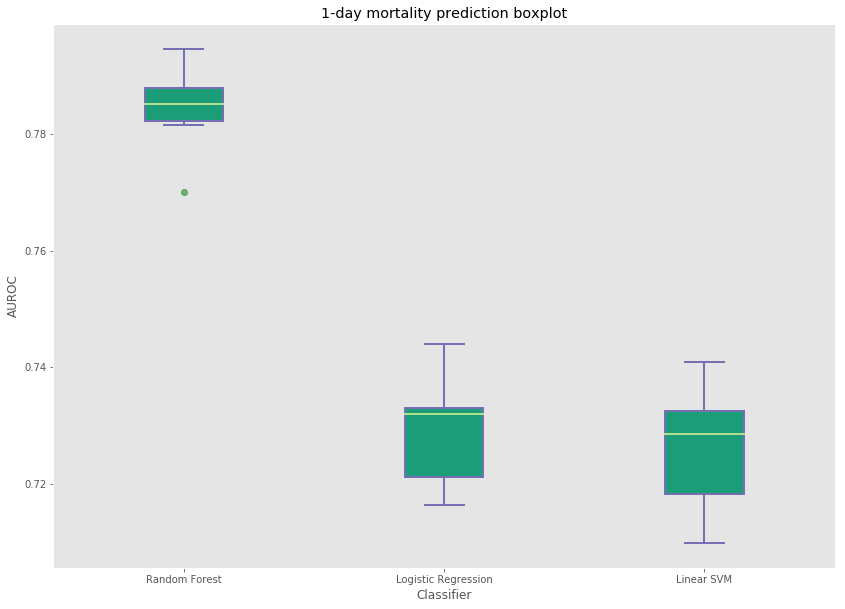
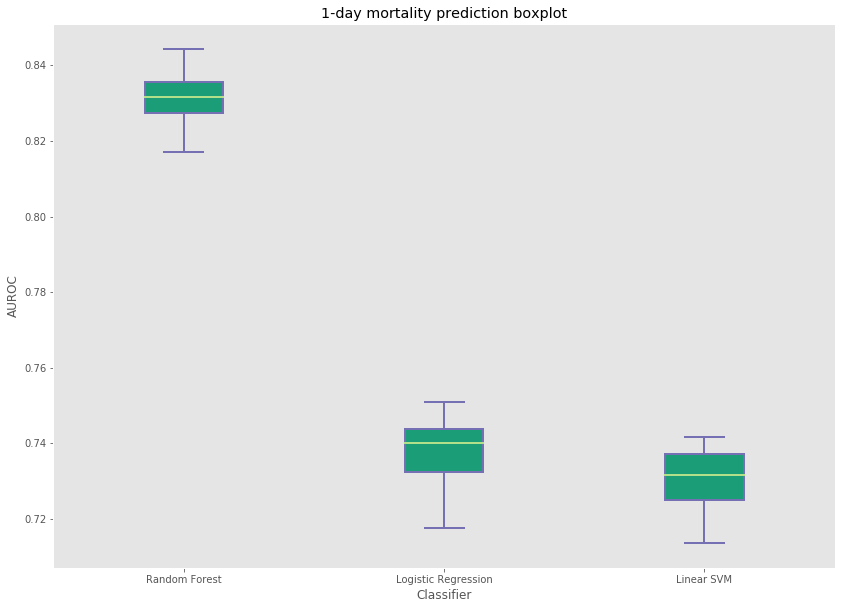
finished full draft

diff --git a/_posts/2017-08-21-gsoc-final-post.md b/_posts/2017-08-21-gsoc-final-post.md
@@ -26,10 +26,10 @@ However, initatives like the Medical Information Mart For Intensive Care (MIMIC)
     4.1. [Results](#41-results)
 5. [Improved model with temporal features](#5-improved-model-with-temporal-features)
     5.1 [Resampling](#51-resampling)
-    5.2 [Results](#52-results)
+    5.2 [Model](#52-model)
+    5.3 [Results](#53-results)
 8. [Conclusion](#conclusion)
 9. [Future improvements](#future-improvements)
-
 
 ## 1. Objective
 
@@ -38,11 +38,56 @@ Using the MIMIC database which includes vital signs, medications, diagnostic cod
 1. Mortality prediction
 2. Hospital length of stay  
 
-More specifically, I accomplished the following:
+I first experimented with a basic model which ignores temporal structure in the data, and attempted to perform mortality prediction. Briefly, for the first model, I completed the following tasks:
 
 1. Extracted predictor variables from the MIMIC database
 2. Built machine learning models for the predictions tasks
-3. Evaluated and compared the performance of various algorithms
+3. Evaluated and compared the performance of various algorithms 
+
+In the second improved model, I took into account the complexity of time series data, since past vital signs and how they previously fluctuated can be strong indicators of the current condition of a patient. The problem is still modeled as a binary classification problem, but now with time series data as a predictor. In this part, I had to compute features to model temporal data and use it for mortality prediction at any point in time.
+
+From there, I explored the pros and cons of each model, the challenges of using time series data and compared the different approaches while providing discussions on the analysis & results.
+
+## 2. Overview of MIMIC
+
+The MIMIC database mainly includes demographic, administrative, clinical data and much more from thousands of critical care patients. The table and the plot below provides basic descriptive statistics of the patients and an overview of the dataset.
+
+| Information                    | Totals |
+|--------------------------------|-------------|
+| Age, years, median          data-cleaning   | 65.769      |
+| Gender, male (%)               | 56.207      |
+| Distinct number of patients    | 38,597      |
+| Distinct ICU stays             | 53,423      |
+| Hospital admissions            | 49,785      |
+| Hospital length of stay (days) | 11.545      |
+| ICU length of stay (days)      | 2.144       |
+| Hospital mortality (%)         | 11.545      |
+| ICU mortality (%)              | 8.545       |
+
+![](/img/week2/hist-mimic.png "Histograms for MIMIC")
+
+Additional information regarding the MIMIC database can be found in the [published paper](https://www.nature.com/articles/sdata201635) as well.
+
+### 2.1 Features
+
+Predictors from three main categories were extracted: demographic information, vital sign data and laboratory measurements. These were selected as the most relevant information in determining the likelihood of mortality and hospital length of stay.
+
+| Demographic & Clinical Info             | Description |
+|-------------------------|---------------------------------------------|
+| Age                     | Age of the patient upon entering the ICU    |
+| Gender                  | Patient gender (male or female)             |
+| Hospital length of stay | Number of days spent in the hospital        |
+| ICU length of stay      | Number of days spent in the ICU             |
+| First care unit         | ICU type in which the patient was cared for |
+| Admission type          | Admission type the patient entered          |
+
+Vital signs are clinical measurements that describe the state of a patient's body functions.
+
+| Vital sign               | Description |
+|--------------------------|-------------|
+| Heart Rate               | Heartbeat rate of the patient |
+| Mean Blood Pressure      | Average pressure in a patient's arteries during one cardiac cycle       |
+| Diastolic blood pressure | Pressure when the heart is at rest between beats            |
 
 I first experimented with a basic model which ignores temporal structure in the data, and attempted to perform mortality prediction. In the second improved model, I incorporated lagged features which takes into account the complexity of time series data. From there, I explored the pros and cons of each model, the challenges of using time series data and discussions on the analysis & results.
 
@@ -177,13 +222,13 @@ Using [stratified 10-fold cross-validation]([1]), the [auROC](https://en.wikiped
 | XGBoost             | 87.60              |  
 | Random guess         |          50.00           |        
 
-In addition to mortality prediction, 30-day, 1-year and ICU mortality prediction were evaluated. The barcharts below show the results for the different tasks.
+For all three classifiers, 1-day and 1-week mortality predictions were evaluated. The barcharts below show the results for the different tasks.
 
-![](/img/week3/mp-results.png "Mortality prediction results")
+![](/img/finalweek/mp-results.png "Mortality prediction results")
 
 Boxplots give an indication of the variance of the results over the 10 folds through cross-validation.
 
-![](/img/week3/boxplot-mp.png "Boxplot mortality prediction")
+![](/img/finalweek/basic-boxplot-7day.png "Boxplot mortality prediction")
 
  The [ROC curve](https://en.wikipedia.org/wiki/Receiver_operating_characteristic) for hospital mortality gives an insight on the sensitivity and specificity of our logistic regression and linear SVM models. The performance of both models were quite similar.
 
@@ -191,11 +236,11 @@ Boxplots give an indication of the variance of the results over the 10 folds thr
 
 Finally, the regression task for predicting hospital length of stay was evaluate using mean squared error.
 
-| Classifier              | Mean MSE across 10 folds |                  
-|-------------------------|--------------------------|
-|                         | Hospital length of stay  |
-| Least square regression | 110.726                  |
-| Linear ridge regression | 110.726                  |
+| Classifier              | Mean MSE across 10 folds |                      |          
+|-------------------------|--------------------------|----------------------|
+|                         | Hospital length of stay  | ICU length of stay   |  
+| Least square regression | 110.726                  | 46.91                |
+| Linear ridge regression | 110.726                  | 46.91                |
 
 [1]: (https://en.wikipedia.org/wiki/Cross-validation_\(statistics›)#k-fold_cross-validation)
 
@@ -205,7 +250,7 @@ Finally, the regression task for predicting hospital length of stay was evaluate
 
 The previous basic model above that was built for mortality prediction was based on a single time-shot features i.e. vital signs of the first 24 hours were aggregated and had descriptive statistics computed. As a result, the basic model fails to account any temporal structure in the data and will not capture a changing health status of a patient.
 
-Let's recall that the objective was to develop a model that could allow caregivers to monitor and predict mortality of patients. In practice, such a system would be incorporated in a real-time clinical monitoring system where it would be possible to look at a patient at any point in time and make a prediction about whether the patient will die within a certain amount of time. 
+Let's recall that the objective was to develop a model that could allow caregivers to monitor and predict mortality of patients. In practice, such a system would be incorporated in a real-time clinical monitoring system where it would be possible to look at a patient at any point in time and make a prediction about whether the patient will die within a certain amount of time. The previous model is limited in the sense that it doesn't account for predictions at any point in time, since it's trained with data from only the first 24 hours combined.
 
 In this improved model, I exploit the temporal information, taking into account the fluctuations of the vital signs over time and most importantly does not look at how the vital signs change moments before death. From there, it allowed me to better understand how a dying patient differs from a patient with normal behavior moments before days, hours and right before death.
 
@@ -219,36 +264,49 @@ A rolling window then computes the mean, min, max and median over the entire vit
 
 | timestamp           | hr | hr_1h | hr_max_6h | hr_mean_6h | hr_median_6h | hr_min_6h |
 |---------------------|---------------|-------|-----------|------------|--------------|-----------|
-| 2100-06-09 13:00:00 | 90.0          | 74.0  | 90.0      | 79.85      | 77.0         | 74.0      |
-| 2100-06-09 14:00:00 | 81.0          | 90.0  | 90.0      | 79.28      | 77.0         | 74.0      |
-| 2100-06-09 15:00:00 | 79.0          | 81.0  | 90.0      | 79.00      | 77.0         | 74.0      |
-| 2100-06-09 16:00:00 | 79.0          | 79.0  | 90.0      | 79.42      | 79.0         | 74.0      |
-| 2100-06-09 17:00:00 | 68.0          | 79.0  | 90.0      | 78.14      | 79.0         | 68.0      |
+|  13:00 | 90.0          | 74.0  | 90.0      | 79.85      | 77.0         | 74.0      |
+|  14:00 | 81.0          | 90.0  | 90.0      | 79.28      | 77.0         | 74.0      |
+|  15:00 | 79.0          | 81.0  | 90.0      | 79.00      | 77.0         | 74.0      |
+|  16:00 | 79.0          | 79.0  | 90.0      | 79.42      | 79.0         | 74.0      |
+|  17:00 | 68.0          | 79.0  | 90.0      | 78.14      | 79.0         | 68.0      |
 
-To observe how these features differ between dying and surviving patients, a stacked histogram was plotted to view the distribution of these vital signs values across both groups. 
+To observe how these features differ between dying and surviving patients, I plotted stacked histograms from equally sampled survival and non-survival patients to view the distribution of these vital signs values across both groups.
 
-![](/img/finalweek/vitals-comparison-1week.png "Vital Sign comparison")
+![](/img/finalweek/vitals-comparison-1day.png "Vital Sign comparison")
 
-### 5.2 Results
+While there is no clear conclusion that can be drawn from looking at the vital signs histograms, this may indicate that these variables vary depending on the patient. For instance, a patients'
 
-In the end, the features included vital signs, their lagged observations and window computations, demographic information and the hospital length of stay of the patient. Three classifiers (logistic regression, linear SVM and random forest) were evaluated and compared. The feature matrix was constructed where a single row represented a patient observation at a certain point in time with the features mentionned above. 
+### 5.2 Model
 
-Another challenge I faced was dealing with class imbalance and the size of the dataset which consists of over 500,000 data points. To address this issue, the training and testing set were subsampled and evaluated several times. The subset of the data consisted of 100,000 points and split in two for training and testing, and averaged over 10 runs. The results were recorded in the following table.
+In the end, the features included vital signs, their lagged observations and window computations, demographic information and the hospital length of stay of the patient. The feature matrix consisted of a single row represented a patient observation at a certain point in time with the features mentionned above. The following plot shows what sample features look like for a dying patient.
+
+![](/img/week10/features-patient.png "Patient Features")
+
+The label for that feature vector was whether that patient died within 1 day or within 1 week of time, which results in a large feature matrix consisting rows of patient data over the past 6 hours at different points in time, and whether the patient will die in 1 day and 1 week.
+
+### 5.3 Results
+
+Three classifiers (logistic regression, linear SVM and random forest) were evaluated and compared. One challenge I faced was dealing with class imbalance where the number of negative samples (patients that did not die) was significantly larger than the number of positive samples (patients that died). This was addressed by undersampling the negative samples to maintain a ratio of 80/20. In addition, because the size of the dataset consisted of over 500,000 data points, the training and testing set were subsampled and evaluated several times. The subset of the data consisted of 100,000 points and split in two for training and testing, and averaged over 10 runs. The results were recorded in the following table.
 
 | Classifier          | Test set AUC score (%)    |                            |
 |---------------------|---------------------------|----------------------------|
 |                     | 1-day hospital mortality  | 1-week hospital mortality   |
-| Logistic Regression | 73.48                     | 71.71                      |
-| Linear SVM          | 73.22                     | 71.54                      |
-| Random Forest       | 79.35                     | 79.64                      |
+| Logistic Regression | 73.48                     | 72.03                      |
+| Linear SVM          | 73.22                     | 71.81                      |
+| Random Forest       | 83.12                     | 83.51                      |
+
+
+![](/img/finalweek/boxplot-1day.png "1 Day Boxplot")
 
 Random forest produced the best results among all three classifiers for 1-day and 1-week mortality prediction. The variance across the 10 runs with 100,000 samples from the entire dataset can also be seen here.
 
-![](/img/finalweek/boxplot-1day.png "1 Day Boxplot")
 ![](/img/finalweek/boxplot-1week.png "1 Week Boxplot")
 
+The scores for 1-day mortality were slightly higher than 1-week mortality, which could be explained due to the fact that the first 24 hours upon entering the ICU are critical and are closer in time to the prediction period of 1 day.
 
 ## Conclusion
+
+I first started off with a basic model using demographic information, vital signs and laboratory measurements for predicting patient mortality. Using three common machine learning classifiers, I was able to obtain decent results of 85% AUC. However, ignoring the temporal component of the data reduced the predictive power of my models, since I used a single time-shot of all vital signs to predict mortality. In the second,improved model, I added lagged features and computed sliding window summary statistics for the vital signs. The latter model ended up being much more realistic and capable of making better predictions at any point in time since it took into account the time series data.
 
 ## Future improvements
 
